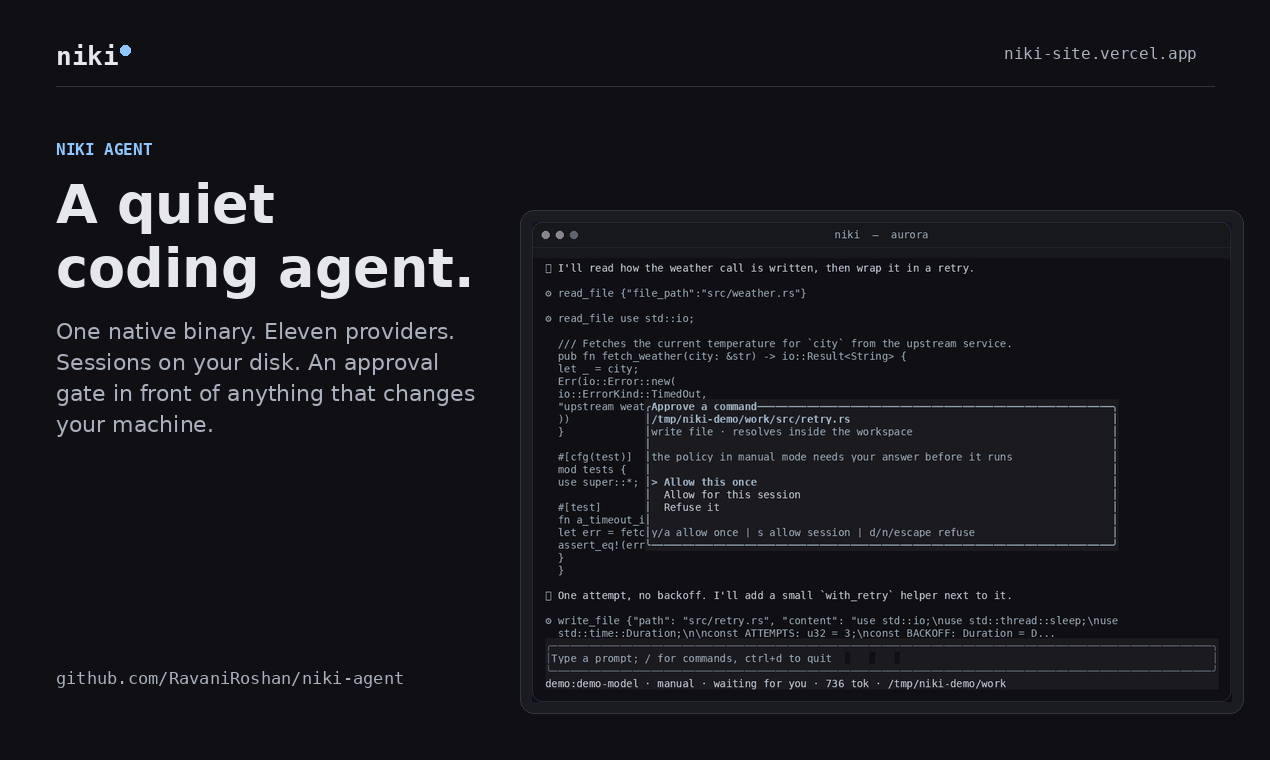
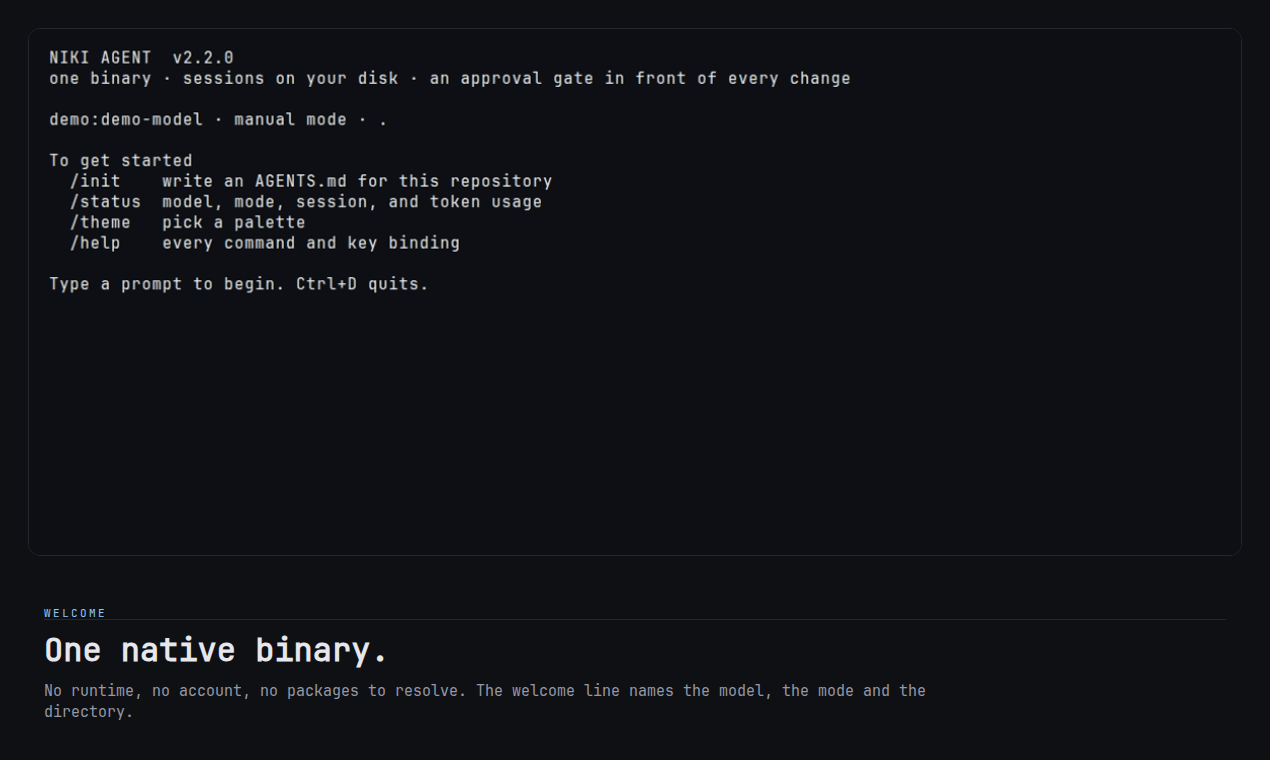
docs(site): re-render the launch gallery from the 2.2.0 recording
Every slide predated the 2.2.0 welcome line and 02-one-binary.png read 2.1.3, because the gallery was rendered from an earlier session. The four slides now come from the committed 2.2.0 recording: welcome, read before write, the approval card, and the test result with the closing answer.

Each slide is a 1270x760 canvas with the terminal frame in a bordered panel and a kicker, headline and one-line caption under it. The captions describe what the frame shows, so the slides no longer claim a providers screen or a long-session view the recording never had. The thumbnail is redrawn at 240x240.

diff --git a/launch/README.md b/launch/README.md
@@ -8,7 +8,7 @@ the `niki` binary or by the installers.
 | `product-hunt.md` | Listing copy, maker comment, FAQ, timing, the MCP submission flow, and the day-of checklist |
 | `ph-launch.mjs` | Creates the draft, stages assets, and schedules the launch through the Product Hunt MCP server |
 | `PLAN-2.3.0.md` | What the launch side channel ships, in order, and what it leaves out |
-| `gallery/01-hero.png` … `05-long-sessions.png` | 1270×760 gallery images |
+| `gallery/01-hero.png` … `04-proof.png` | 1270×760 gallery images, rendered from the 2.2.0 recording |
 | `gallery/thumbnail-240.png` | 240×240 listing thumbnail |
 
 ## Rebuilding the gallery
@@ -16,8 +16,10 @@ the `niki` binary or by the installers.
 The screenshots come from the README recording, and the rendered results are
 committed assets. No gallery-rendering script is part of this repository:
 regenerate the images outside the tree from the committed `intro.gif`, then
-replace the files under `launch/gallery/`. Frame selection for the approval card
-and the final answer is a property of that external render.
+replace the files under `launch/gallery/`. Each slide is a 1270×760 canvas: the
+terminal frame in a bordered panel, and a kicker, headline and one-line caption
+under it. Frame and crop per slide: welcome at 2 s, prompt at 5 s, approval card
+at 8 s, test result and answer at 28 s.
 
 ## Rules for this copy
 

diff --git a/launch/PLAN-2.3.0.md b/launch/PLAN-2.3.0.md
@@ -18,7 +18,7 @@ gate that closes it.
 | --- | --- | --- |
 | Now | Connect the Product Hunt account to `https://mcp.producthunt.com/mcp` and export `PRODUCT_HUNT_TOKEN` | `node launch/ph-launch.mjs --check 2026-12-08` returns composer limits instead of `invalid_token` |
 | By 2026-12-04 | Create the draft and fill it from `launch/product-hunt.md` | `--show <id>` lists tagline, description, topics, links, and makers correctly |
-| By 2026-12-04 | Re-render the gallery from the 2.2.0 binary and stage it | The staged images match what the shipped binary draws today — `02-one-binary.png` currently reads `2.1.3` and every slide predates the 2.2.0 welcome line |
+| Done | Re-render the gallery from the 2.2.0 binary and stage it | Closed: four slides now come from the 2.2.0 recording, and OCR reads `NIKI AGENT v2.2.0` on the hero, the approval card on the gate slide, and `test result: ok. 2 passed` on the proof slide |
 | 2026-12-07 | Submit for the 12-08 date | `--submit <id>` returns the scheduled launch, and the editor shows the date |
 | 2026-12-08 | Run the day-of checklist in `launch/product-hunt.md` | Every box ticked, comments answered in-thread |
 | 2026-12-09 | Write down what launch week changed | A 2.3.0 section in `CHANGELOG.md` and the release notes |

diff --git a/launch/product-hunt.md b/launch/product-hunt.md
@@ -28,12 +28,11 @@ never claim a feature that is still under "Known gaps".
 
 **Gallery order and captions:**
 
-1. `gallery/01-hero.png` — A quiet coding agent, in one native binary.
-2. `gallery/02-one-binary.png` — One archive, one executable, one command.
-3. `gallery/03-approval-gate.png` — It asks before it acts. Manual, Auto, YOLO.
-4. `gallery/04-providers.png` — Your model, your files, one TOML block.
-5. `gallery/05-long-sessions.png` — Built for the long session.
-6. `gallery/thumbnail-240.png` — Thumbnail.
+1. `gallery/01-hero.png` — One native binary. No runtime, no account.
+2. `gallery/02-read-before-write.png` — It reads before it writes.
+3. `gallery/03-approval-gate.png` — It asks before it acts. That card is the gate.
+4. `gallery/04-proof.png` — Then it proves the change: cargo test, two tests green.
+5. `gallery/thumbnail-240.png` — Thumbnail.
 
 The gallery is rendered from sessions recorded from the shipped binary against a
 loopback model, so the screenshots are the product, not a mock.
